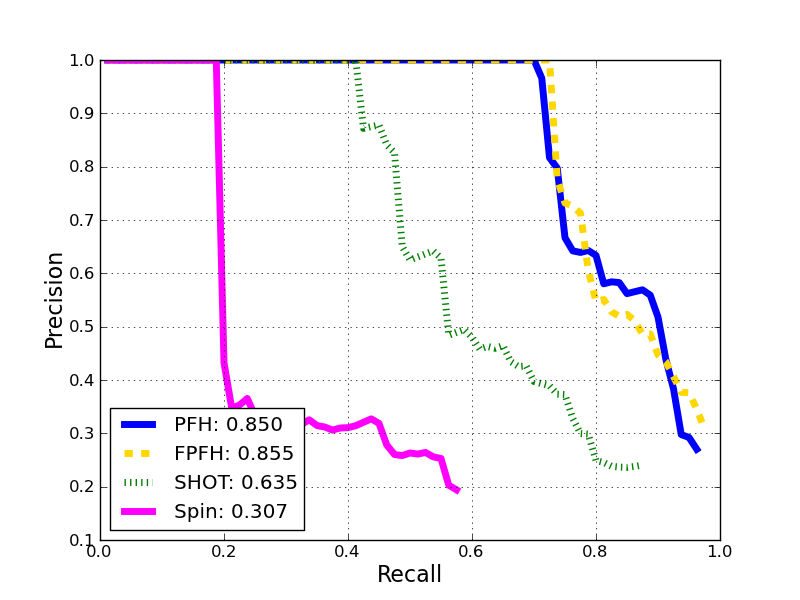
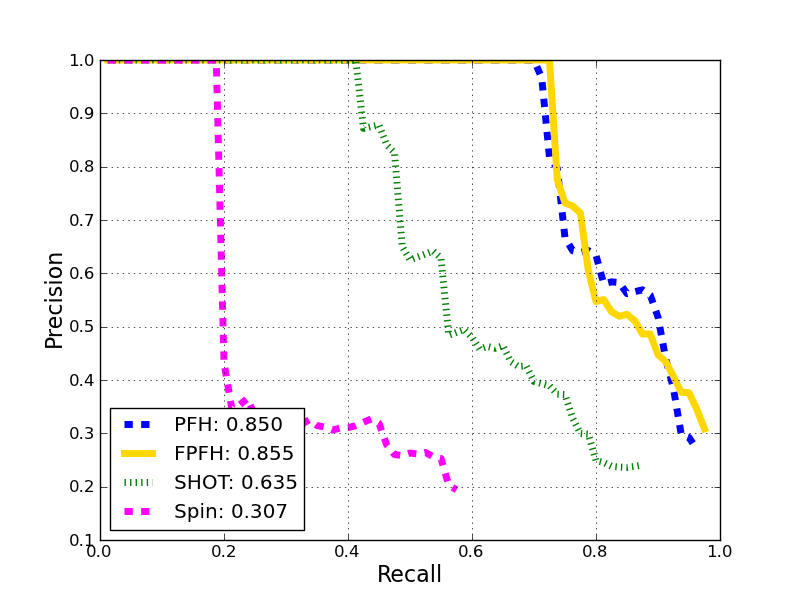
changed a bit of coloring

diff --git a/plotting/main.py b/plotting/main.py
@@ -35,7 +35,7 @@ class EvalSet:
     evals,feat_names = self.process_features(features)
     clf()
     colors = ['blue','gold','green','magenta']
-    linestyles = ['-', '--', ':']
+    linestyles = ['--','-',':']
     for i,e in enumerate(evals):
       label = "%s: %.3f"%(e.nice_name,e.ap)
       lstyle = linestyles[mod(i,len(linestyles))]
